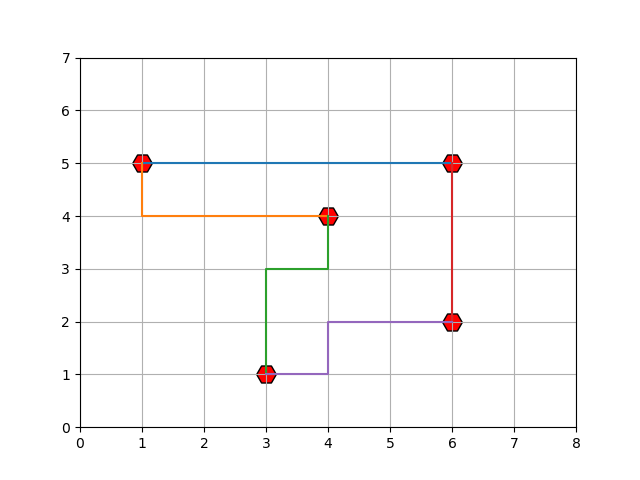
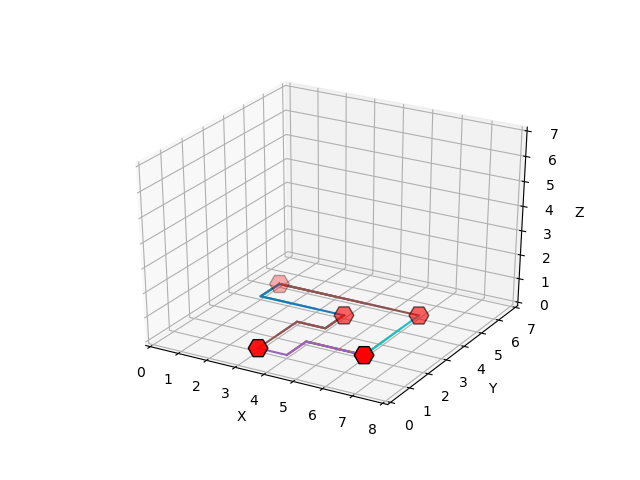
matplotlib-3d

diff --git a/code/algorithms/xyz_move.py b/code/algorithms/xyz_move.py
@@ -8,54 +8,54 @@ def xyz_wire(net_cor, chip):
 		wire = []
 		wire.append(net[0])
 
-	current_cor = list(net[0])
-	end_cor = net[1]
+		current_cor = list(net[0])
+		end_cor = net[1]
 
-	while True:
-		# check whether current point and end point are adjacent
-		if abs(current_cor[0] - end_cor[0]) + abs(current_cor[1] - end_cor[1]) + abs(current_cor[2] - end_cor[2]) == 1:
-			wire.append(net[1])
-			output_dict[net] = wire
-			break
+		while True:
+			# check whether current point and end point are adjacent
+			if abs(current_cor[0] - end_cor[0]) + abs(current_cor[1] - end_cor[1]) + abs(current_cor[2] - end_cor[2]) == 1:
+				wire.append(net[1])
+				output_dict[net] = wire
+				break
 
-		# move towards the end-gate
-		else:
-			# move +x if x of end is larger and +x is open
-			if (end_cor[0] - current_cor[0]) > 0 and chip.check_empty(((current_cor[0] + 1), current_cor[1], current_cor[2]), chip.grid):
-				current_cor[0] += 1
-				chip.grid[current_cor[0]][current_cor[1]][current_cor[2]] = True
-				wire.append(tuple(current_cor))
-
-			# move -x if x of end is smaller and -x is open
-			elif ((end_cor[0] - current_cor[0]) < 0) and chip.check_empty(((current_cor[0] - 1), current_cor[1], current_cor[2]), chip.grid):
-				current_cor[0] -= 1
-				chip.grid[current_cor[0]][current_cor[1]][current_cor[2]] = True
-				wire.append(tuple(current_cor))
-
-			# move +y if y of end is larger and +y is open
-			elif ((end_cor[1] - current_cor[1]) > 0) and chip.check_empty((current_cor[0], (current_cor[1] + 1), current_cor[2]), chip.grid):
-				current_cor[1] += 1
-				chip.grid[current_cor[0]][current_cor[1]][current_cor[2]] = True
-				wire.append(tuple(current_cor))
-
-			# move -y if y of end is smaller and -y is open
-			elif ((end_cor[1] - current_cor[1]) < 0) and chip.check_empty((current_cor[0], (current_cor[1] - 1), current_cor[2]), chip.grid):
-				current_cor[1] -= 1
-				chip.grid[current_cor[0]][current_cor[1]][current_cor[2]] = True
-				wire.append(tuple(current_cor))
-
-			# move -z if z of end is larger and -z is open
-			elif ((end_cor[2] - current_cor[2]) < 0) and chip.check_empty((current_cor[0], current_cor[1], (current_cor[2] - 1)), chip.grid):
-				current_cor[2] -= 1
-				chip.grid[current_cor[0]][current_cor[1]][current_cor[2]] = True
-				wire.append(tuple(current_cor))
-
-			# move +z if z of end is larger and +z is open
+			# move towards the end-gate
 			else:
-				if current_cor[2] + 1 == 8:
-					return None
-				current_cor[2] += 1
-				chip.grid[current_cor[0]][current_cor[1]][current_cor[2]] = True
-				wire.append(tuple(current_cor))
+				# move +x if x of end is larger and +x is open
+				if (end_cor[0] - current_cor[0]) > 0 and chip.check_empty(((current_cor[0] + 1), current_cor[1], current_cor[2]), chip.grid):
+					current_cor[0] += 1
+					chip.grid[current_cor[0]][current_cor[1]][current_cor[2]] = True
+					wire.append(tuple(current_cor))
+
+				# move -x if x of end is smaller and -x is open
+				elif ((end_cor[0] - current_cor[0]) < 0) and chip.check_empty(((current_cor[0] - 1), current_cor[1], current_cor[2]), chip.grid):
+					current_cor[0] -= 1
+					chip.grid[current_cor[0]][current_cor[1]][current_cor[2]] = True
+					wire.append(tuple(current_cor))
+
+				# move +y if y of end is larger and +y is open
+				elif ((end_cor[1] - current_cor[1]) > 0) and chip.check_empty((current_cor[0], (current_cor[1] + 1), current_cor[2]), chip.grid):
+					current_cor[1] += 1
+					chip.grid[current_cor[0]][current_cor[1]][current_cor[2]] = True
+					wire.append(tuple(current_cor))
+
+				# move -y if y of end is smaller and -y is open
+				elif ((end_cor[1] - current_cor[1]) < 0) and chip.check_empty((current_cor[0], (current_cor[1] - 1), current_cor[2]), chip.grid):
+					current_cor[1] -= 1
+					chip.grid[current_cor[0]][current_cor[1]][current_cor[2]] = True
+					wire.append(tuple(current_cor))
+
+				# move -z if z of end is larger and -z is open
+				elif ((end_cor[2] - current_cor[2]) < 0) and chip.check_empty((current_cor[0], current_cor[1], (current_cor[2] - 1)), chip.grid):
+					current_cor[2] -= 1
+					chip.grid[current_cor[0]][current_cor[1]][current_cor[2]] = True
+					wire.append(tuple(current_cor))
+
+				# move +z if z of end is larger and +z is open
+				else:
+					if current_cor[2] + 1 == 8:
+						return None
+					current_cor[2] += 1
+					chip.grid[current_cor[0]][current_cor[1]][current_cor[2]] = True
+					wire.append(tuple(current_cor))
 
 	return output_dict

diff --git a/code/visualisation/matplot.py b/code/visualisation/matplot.py
@@ -1,28 +1,36 @@
 from code.classes import chip
 import matplotlib
 import matplotlib.pyplot as plt
+from mpl_toolkits.mplot3d import axes3d
 import numpy as np
 
 def visualise(gates, output_dict, x, y):
-""" Create a visual representation of the solved chip. """
+	""" Create a visual representation of the solved chip. """
 
 	# clear previous plot
-	plt.clf()
+	# plt.clf()
 
+	# make 3D-figure
+	fig = plt.figure()
+	plot = fig.gca(projection='3d')
+	
 	# create grid
-	plt.xlim(0.0, x, 1.0)
-	plt.ylim(0.0, y, 1.0)
-	plt.zlim(0.0, 8.0, 1.0)
-	plt.grid(True)
-	plt = plt.axes(projection='3d')
+	plot.set_xlabel("X")
+	plot.set_xlim(0.0, x, 1.0)
+	plot.set_ylabel("Y")
+	plot.set_ylim(0.0, y, 1.0)
+	plot.set_zlabel("Z")
+	plot.set_zlim(0.0, 7.0, 1.0)
 
 	# create lines
 	for wires in output_dict.values():
 		line_x = []
 		line_y = []
+		# line_z = []
 		for cor in wires:
 			line_x.append(cor[0])
 			line_y.append(cor[1])
+			# line_z.append(cor[2])
 			plt.plot(line_x, line_y)
 
 	# create scatterplot
